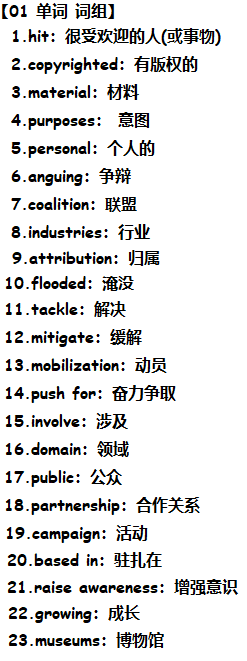
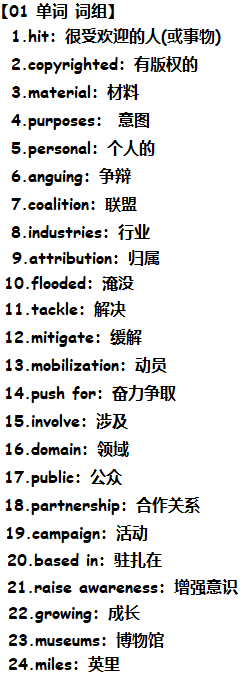
251027 D51

Changed region(s): [[0.0, 0.0, 0.9069, 0.9985], [0.7085, 0.8472, 0.9636, 0.9077]]

diff --git a/01 真题/01 24 50’ = 10’ + 40‘/02 阅读理解 40‘ = 20 × 2‘  T21-40/03 Text 3 10' = 5 × 2’  T31-35/01 251026 D52/02 Doc.md b/01 真题/01 24 50’ = 10’ + 40‘/02 阅读理解 40‘ = 20 × 2‘  T21-40/03 Text 3 10' = 5 × 2’  T31-35/01 251026 D52/02 Doc.md
@@ -1,3 +1,3 @@
 # 01 单词 词组
 
-<img src="https://cvp.oss-cn-shanghai.aliyuncs.com/202510270722047.png" alt="image-20251027072153950" style="zoom:50%;" />
+<img src="https://cvp.oss-cn-shanghai.aliyuncs.com/202510271828113.png" alt="image-20251027182815024" style="zoom:50%;" />
